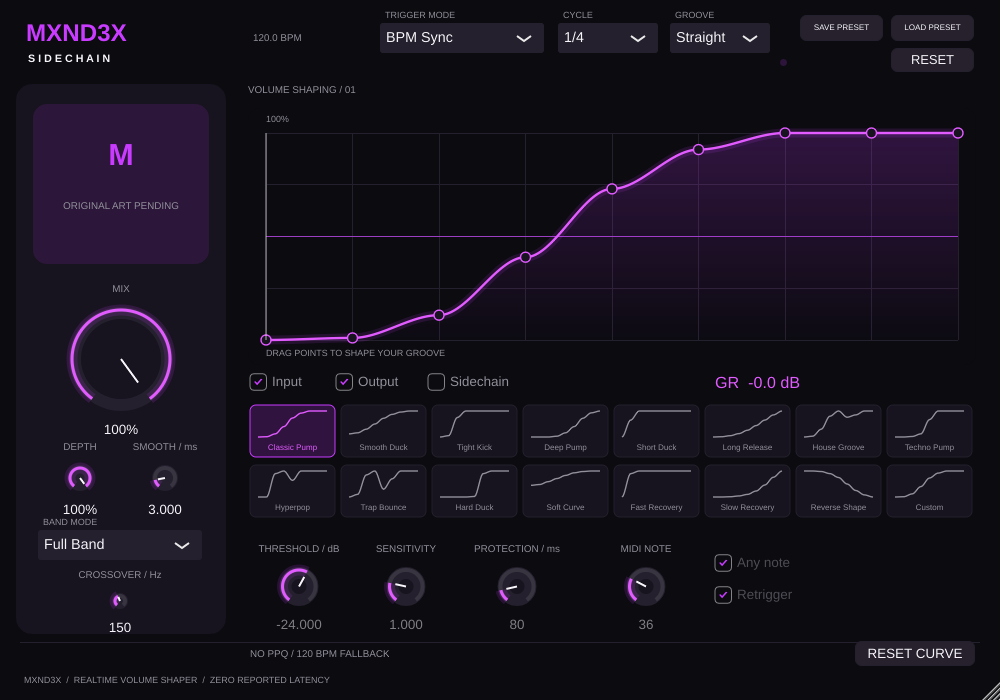
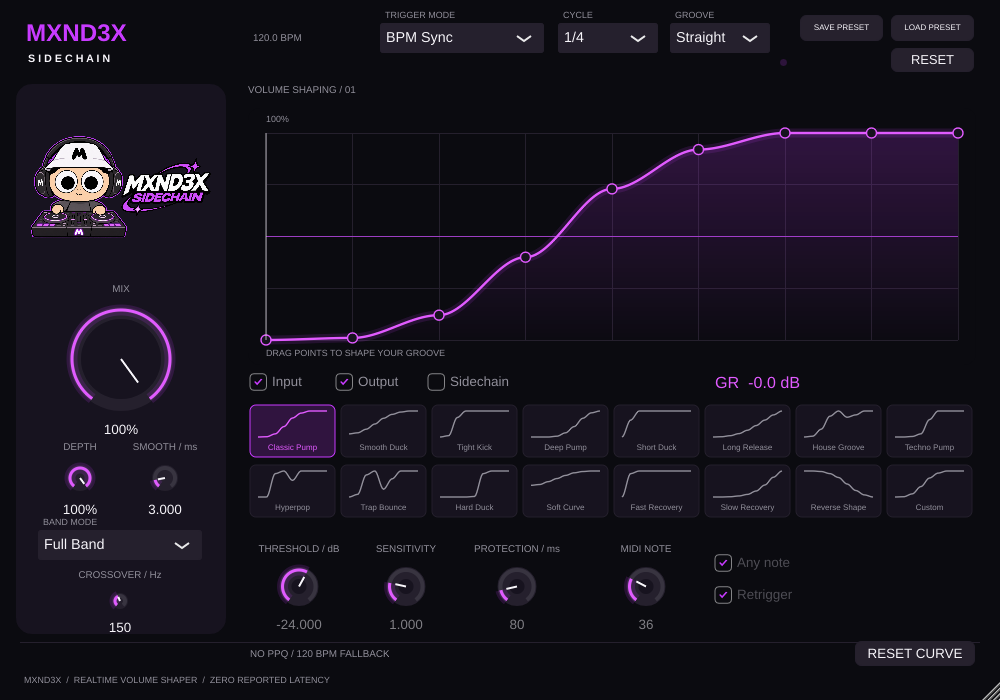
Embed original MXND3X character artwork in the plugin

Changed region(s): [[0.031, 0.15, 0.217, 0.39]]

diff --git a/Source/PluginEditor.cpp b/Source/PluginEditor.cpp
@@ -1,7 +1,5 @@
 #include "PluginEditor.h"
-#ifdef MXND3X_HAS_CHARACTER
 #include <BinaryData.h>
-#endif
 using namespace juce;
 void EnvelopeView::paint(Graphics &g)
 {
@@ -263,10 +261,9 @@ SidechainEditor::SidechainEditor(SidechainProcessor &proc) : AudioProcessorEdito
     }
     gr.setColour(Label::textColourId, ui::pink);
     gr.setFont(FontOptions(18.f));
-#ifdef MXND3X_HAS_CHARACTER
     character =
         ImageCache::getFromMemory(BinaryData::MXND3XCharacter_png, BinaryData::MXND3XCharacter_pngSize);
-#endif
+    jassert(character.isValid());
     setResizable(true, true);
     setResizeLimits(900, 630, 1600, 1120);
     setSize(1000, 700);
@@ -296,17 +293,6 @@ void SidechainEditor::paint(Graphics &g)
     if (character.isValid())
         g.drawImageWithin(character, 28, 101, 186, 172,
                           RectanglePlacement::centred | RectanglePlacement::onlyReduceInSize);
-    else
-    {
-        g.setColour(ui::purple.withAlpha(.12f));
-        g.fillRoundedRectangle(33, 104, 176, 160, 14);
-        g.setColour(ui::purple);
-        g.setFont(FontOptions(34, Font::bold));
-        g.drawText("M", 33, 125, 176, 60, Justification::centred);
-        g.setColour(ui::muted);
-        g.setFont(FontOptions(11.f));
-        g.drawText("ORIGINAL ART PENDING", 33, 193, 176, 26, Justification::centred);
-    }
     g.setColour(ui::purple.withAlpha(.18f + activity * .82f));
     g.fillEllipse(780, 59, 7, 7);
     g.setColour(ui::surface);

diff --git a/VALIDATION.md b/VALIDATION.md
@@ -5,6 +5,7 @@
 ## Успешно
 
 - Реальная Release-сборка Linux VST3, Standalone, DSP/processor tests и GUI capture.
+- Windows x64 Release: исходная версия `a672b4d` успешно собрана и протестирована на GitHub Actions / Windows 2022 / Visual Studio 2022. [Run №1](https://github.com/almazzz2311-jpg/MXND3X-SIDECHAIN/actions/runs/40554152491) завершился SUCCESS, Windows VST3 опубликован в artifact `MXND3X-SIDECHAIN-Windows-x64`. Эта версия ещё без рисунка; обновление с PNG запускает новую сборку.
 - `dsp_tests`: **217 сценариев**. Все 16 форм при 44.1/48/88.2/96/192 kHz; различие форм; точный dry при Mix/Depth 0 в трёх band modes; timing modifiers, BPM и loop/seek phase; MIDI/audio trigger; RMS-проверка подавления 40 Hz и 5 kHz соответствующими полосами; численная проверка сглаживания смены кривой/полосы/crossover; независимость экземпляров.
 - `processor_tests`: **13 сценариев**. Буферы 1/7/64/257/512/2048; полное восстановление параметров и точек; MIDI Note On на sample offset 200; PPQ/BPM хоста; mono layout; внешний mono sidechain действительно запускает подавление; отсутствие вызовов C++ `operator new` в измеренном processBlock; совпадение выходного аудио при разбиении на блоки 1 и 257 сэмплов.
 - CTest: **2/2 тестовых исполняемых файла прошли**, ни одного провала.
@@ -12,13 +13,14 @@
 - Реальный JUCE editor открыт через Xvfb; `interface.png` получен через createComponentSnapshot. Повторный запуск capture перезаписывает файл, без добавления старых PNG-данных.
 - `scripts/setup-cloud.sh` выполнен в текущем окружении; повторный запуск проверяет воспроизводимость сборки с уже установленными зависимостями. Первичная установка выполнялась теми же официальными Git/PyPI/APT источниками, без отключения TLS или проверки подписей.
 
[1 lines of base64/hex data omitted]
+
 ## Что не подтверждено
 
-- **Windows x64 .vst3 не получен.** Попытка MinGW cross build остановлена явной проверкой JUCE 8: `MinGW is not supported. Please use an alternative compiler.` Эта проверка не обходилась. Поддерживаемая сборка Visual Studio 2022 подготовлена в PowerShell-скрипте и Windows CI; здесь они не выполнялись.
+- Windows x64 с новым PNG должен пройти отдельную проверку в GitHub Actions; успешный Run №1 подтверждает исходную версию без рисунка. Локальная MinGW cross build не поддерживается JUCE 8; вместо неё используется поддерживаемая Visual Studio 2022 в CI.
 - FL Studio, установка Windows bundle, MIDI/sidechain routing в FL Studio и прослушивание на аудиоустройстве не тестировались.
 - Отдельный Steinberg VST3 Validator не запускался: pluginval отмечает его как skipped, так как путь к validator не задан. pluginval при этом действительно загружал и проверял VST3.
-- Оригинальный рисунок **не встроен**: инструменты получили два текстовых вложения, но не PNG как извлекаемый файл. На скриншоте обозначено ORIGINAL ART PENDING. BinaryData-интеграция предусмотрена, но её сборка с реальным PNG не проверена.
-- Скриншот показывает настоящий редактор без входного аудио, с placeholder; это не скриншот интерфейса с персонажем и не имитация работающей DAW.
+- Скриншот показывает настоящий редактор с оригинальным рисунком, без входного аудио; это не имитация работающей DAW.
 - Отсутствие слышимых артефактов не подтверждено прослушиванием. Пройдены численные проверки сглаживания и доступные проверки pluginval.
 - Проверка отсутствия выделений измеряет `operator new` одного прохода; это не исчерпывающий аудит всех возможных вызовов malloc/lock стороннего хоста.
 
@@ -28,4 +30,4 @@
 - `dist/MXND3X-SIDECHAIN-source.zip`: исходники, тесты, Windows build script, cloud scripts, CI workflow и документация, без build/dependency caches.
 - `dist/SHA256SUMS.txt`: контрольные суммы архивов.
 
-Установка среды и её инструкции сохранены в draft (`install_script`, `start_skill`). Сохранение draft не публикует snapshot и не доказывает восстановление в новой задаче. Готовность Linux-разработки подтверждена; Windows release и интеграция персонажа остаются незавершёнными.
+Установка среды и её инструкции сохранены в draft (`install_script`, `start_skill`). Сохранение draft не публикует snapshot и не доказывает восстановление в новой задаче. Готовность Linux-разработки подтверждена; Windows release требует подтверждения GitHub Actions; персонаж включён в обязательные ресурсы проекта.

diff --git a/README.md b/README.md
@@ -2,6 +2,8 @@
 
 JUCE 8.0.6 / C++17, VST3 volume shaper для mono/stereo. Собственная DSP-реализация, без кода, рисунков и пресетов Kickstart.
 
+![Интерфейс с оригинальным персонажем MXND3X](interface.png)
+
 ## Возможности
 
 - 16 разных форм, 9 перетаскиваемых точек, плавная smoothstep-интерполяция, Reset Curve.
@@ -78,7 +80,7 @@ ctest --test-dir build-dsp --output-on-failure
 
 Обновление параметров хостом считывается в начале блока; MIDI и музыкальная фаза обрабатываются по сэмплам. Это не обещание sample-accurate VST3 parameter automation внутри блока. В аудиопотоке нет файловых операций, mutex и динамических контейнеров; waveform очередь при переполнении пропускает кадры.
 
-Оригинальный персонаж пока доступен только визуально в чате, без извлекаемого файла. Чтобы встроить оригинал без изменения внешности, положите PNG в `Source/Assets/MXND3XCharacter.png` и повторите CMake configure/build. JUCE BinaryData упакует его внутрь плагина; редактор сохраняет пропорции. Пока показан явно обозначенный placeholder, а не подменённый персонаж. Полный присланный рисунок с логотипом можно встроить целиком.
+Оригинальный PNG персонажа и логотипа находится в `Source/Assets/MXND3XCharacter.png` и обязателен для сборки. JUCE BinaryData упаковывает его внутрь плагина: отдельный файл картинки при установке не требуется. Рисунок встроен целиком, без перерисовки и изменения пропорций. Актуальный скриншот — `interface.png`.
 
 Сведения о фактически выполненных проверках и артефактах — в `VALIDATION.md`. Проверка FL Studio и установка на реальном Windows-хосте не выполнялись в Linux-среде. До этих проверок это разработческая версия, а не подтверждённый production release.
 

diff --git a/Source/Assets/README.md b/Source/Assets/README.md
@@ -1,4 +1,7 @@
-Place the unmodified, user-supplied PNG here as MXND3XCharacter.png and reconfigure CMake.
-It is embedded using JUCE BinaryData. The editor preserves its aspect ratio.
-The supplied chat image has not been made available as a downloadable filesystem asset.
-No recreated character or third-party artwork is shipped. Builds without the PNG show an explicit original-art-pending placeholder.
+# Original MXND3X artwork
+
+MXND3XCharacter.png is the original PNG extracted from the user-supplied персонаж.rar archive.
+It is stored byte-for-byte without cropping, redrawing, stretching or recompression.
+The full character-and-logo composition is displayed with its original aspect ratio.
+JUCE BinaryData embeds it into the plugin; it is a required build resource.
+Artwork rights remain with the owner.
